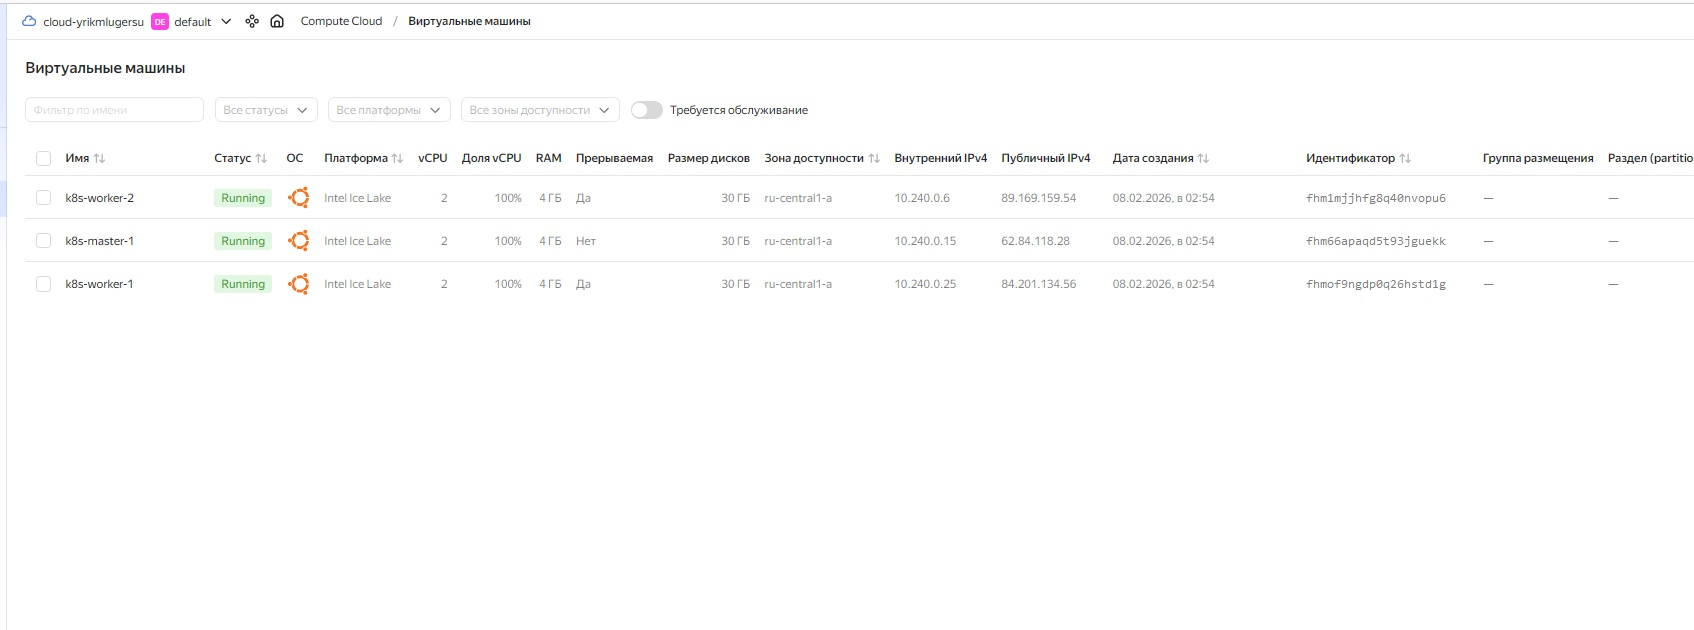
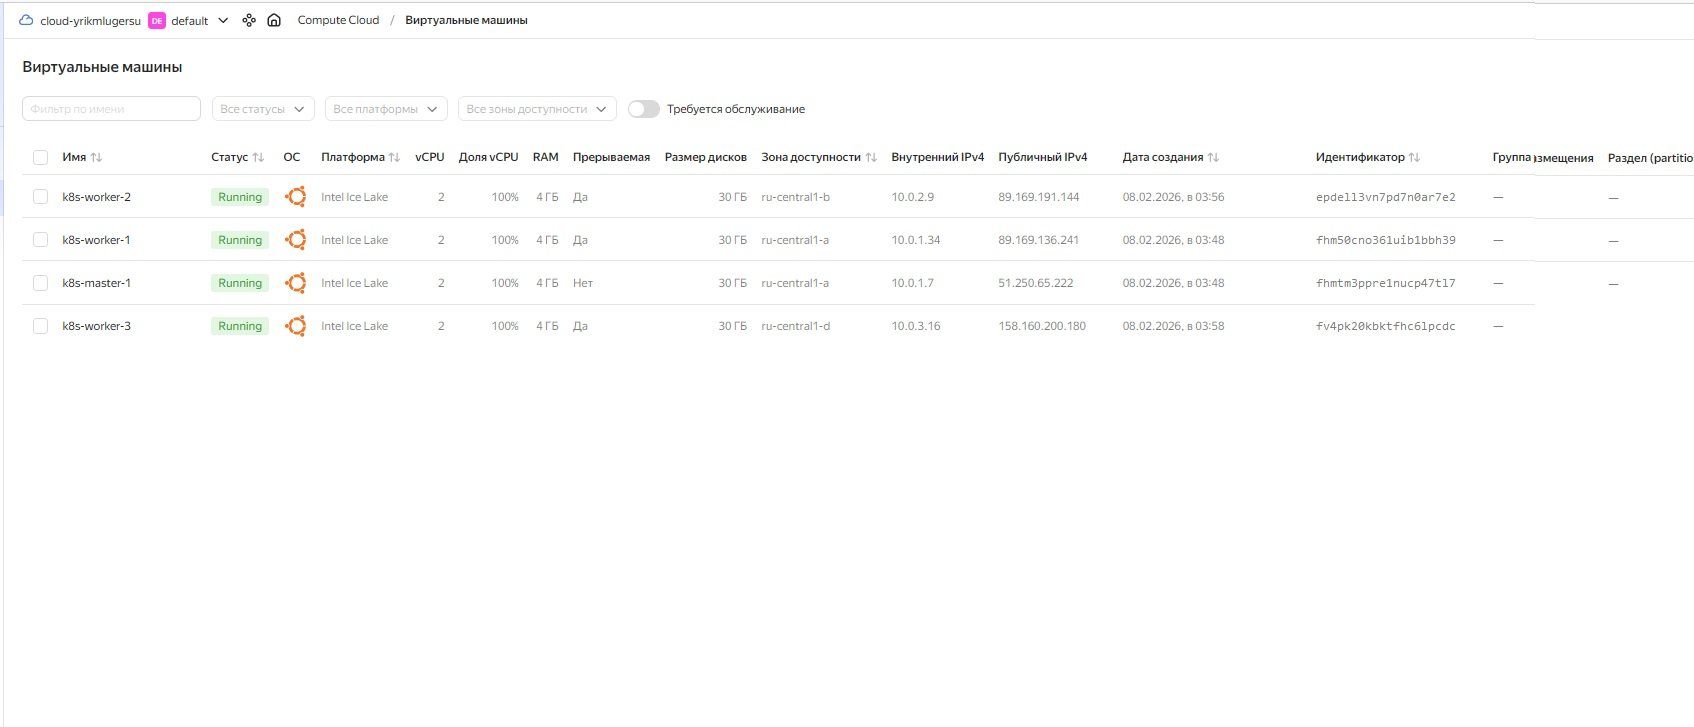
cоздаем cервера для кластера

diff --git a/cloud.md b/cloud.md
@@ -83,3 +83,6 @@ terraform apply -auto-approve
 
 посмотрим сеть
 ![Рисунок 9](https://github.com/ysatii/devops-diplom-yandexcloud/blob/main/img/img_9.jpg) 
+![Рисунок 10](https://github.com/ysatii/devops-diplom-yandexcloud/blob/main/img/img_10.jpg) 
+![Рисунок 11](https://github.com/ysatii/devops-diplom-yandexcloud/blob/main/img/img_11.jpg) 
+![Рисунок 12](https://github.com/ysatii/devops-diplom-yandexcloud/blob/main/img/img_12.jpg) 
